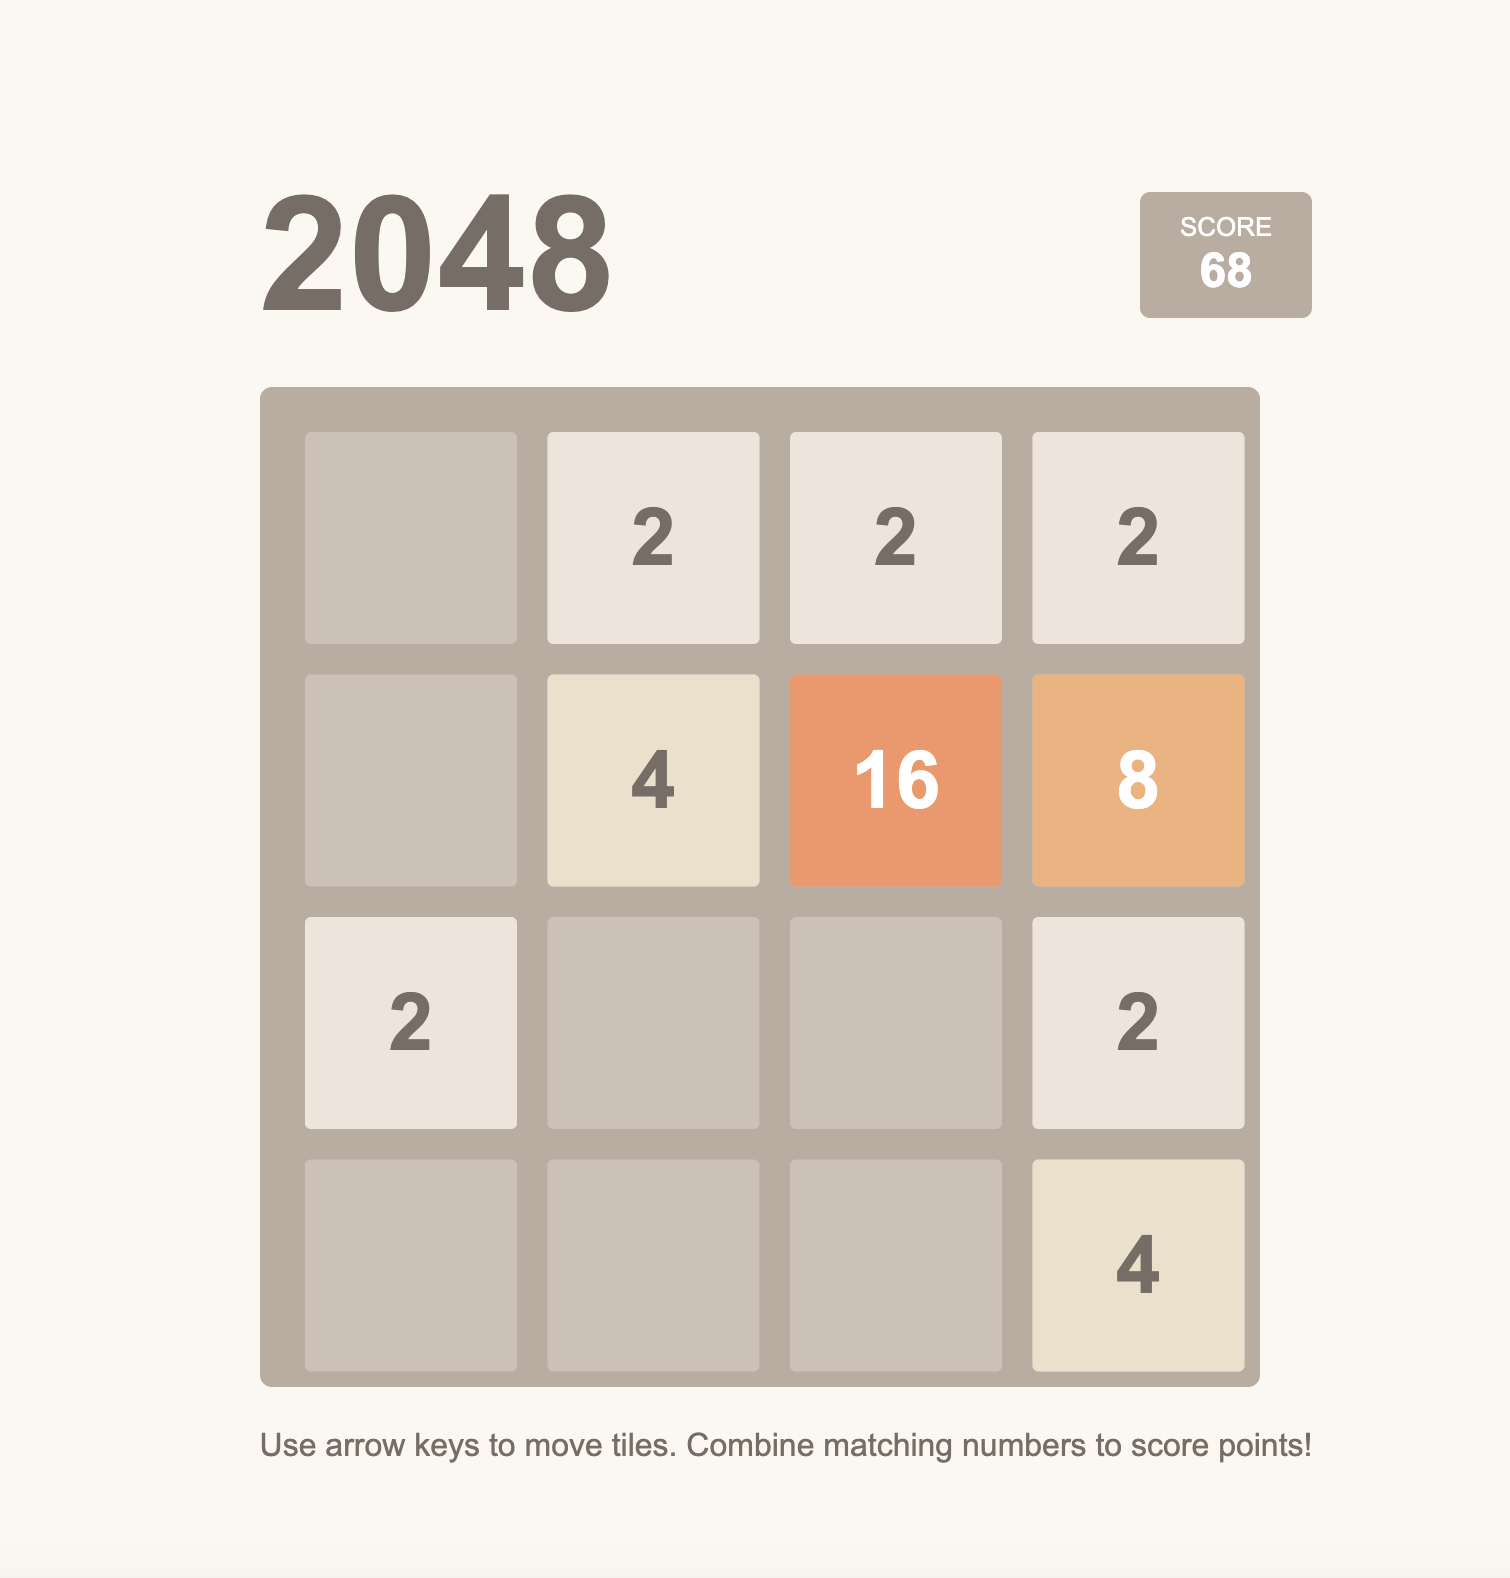
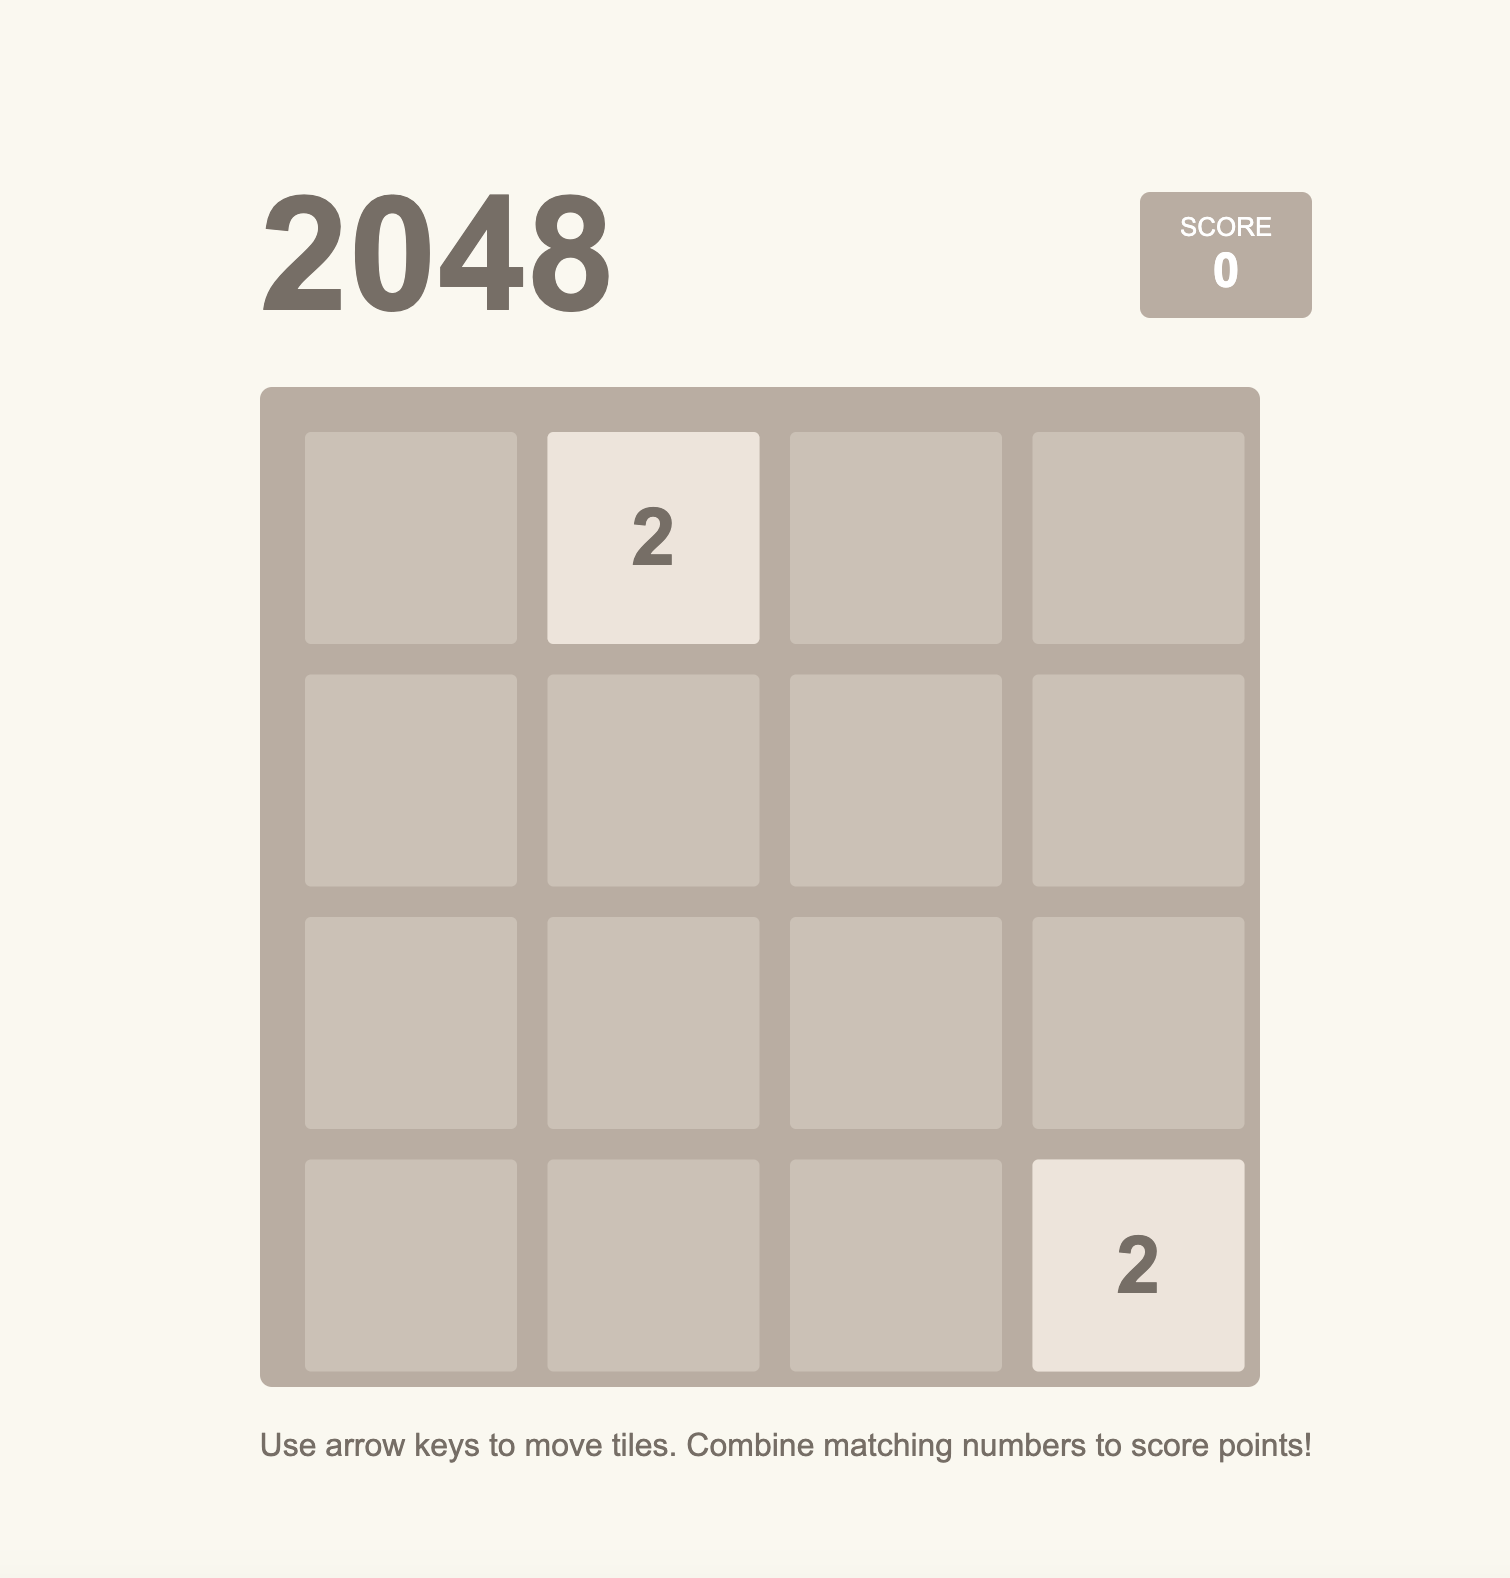
docs: enhance README with deployment info and improved screenshots
Major Updates:
- Added Netlify deployment information and live demo links
- Updated gameplay screenshots for better progression showcase
- Added proper Netlify status badge with correct ID

Documentation Improvements:
1. Added Live Demo:
   - Quick access link at the top
   - Netlify deployment status badge
   - Separate "Play Online" section

2. Enhanced Screenshots:
   - Updated gameplay1.png to show proper game start
   - Better visual progression demonstration
   - Improved screenshot descriptions

3. Project Organization:
   - Added deployment information
   - Restructured development section
   - Added Netlify acknowledgment
   - Updated project links section

4. Technical Updates:
   - Added Netlify to technologies list
   - Improved local development instructions
   - Added both GitHub and live demo links

This commit provides better documentation and presentation
of the project's deployment and gameplay features.

diff --git a/README.md b/README.md
@@ -2,6 +2,10 @@
 
 A modern implementation of the classic 2048 puzzle game with smooth animations and mobile support.
 
+🎮 [Play Live Demo](https://ar-2048-game.netlify.app)
+
+[![Netlify Status](https://api.netlify.com/api/v1/badges/3094e627-3cbb-44f5-8aee-ab0ce9bac81b/deploy-status)](https://app.netlify.com/sites/ar-2048-game/deploys)
+
 ## Game Preview
 
 <div align="center">
@@ -44,36 +48,27 @@ A modern implementation of the classic 2048 puzzle game with smooth animations a
 - Swipe Left: Move tiles left
 - Swipe Right: Move tiles right
 
-## Technical Details
+## Play Online
+
+Visit [ar-2048-game.netlify.app](https://ar-2048-game.netlify.app) to play the game online!
+
+## Development
 
 ### Technologies Used
 
 - HTML5
 - CSS3
 - JavaScript (ES6+)
+- Netlify for deployment
 
-### Key Components
-
-- `index.html`: Main game structure
-- `styles.css`: Game styling and animations
-- `game.js`: Game logic and interactions
-
-### Features Implementation
-
-- CSS Grid for game board layout
-- CSS Transforms for tile animations
-- Touch events for mobile support
-- Responsive design with media queries
-- Modern JavaScript class structure
-
-## Installation
+### Local Development
 
 1. Clone the repository:
    ```bash
    git clone https://github.com/ali-r-dev/2048.git
    ```
 
-2. Open `index.html` in your browser to play
+2. Open `index.html` in your browser to play locally
 
 ## Future Enhancements
 
@@ -103,9 +98,12 @@ This project is licensed under the MIT License - see the [LICENSE](LICENSE) file
 - Original 2048 game by Gabriele Cirulli
 - Inspiration from various 2048 implementations
 - Community feedback and contributions
+- Hosted on [Netlify](https://www.netlify.com/)
 
 ## Contact
 
 Ali Raza - [GitHub](https://github.com/ali-r-dev)
 
-Project Link: [https://github.com/ali-r-dev/2048](https://github.com/ali-r-dev/2048)
+Project Links:
+- GitHub: [https://github.com/ali-r-dev/2048](https://github.com/ali-r-dev/2048)
+- Live Demo: [https://ar-2048-game.netlify.app](https://ar-2048-game.netlify.app)
